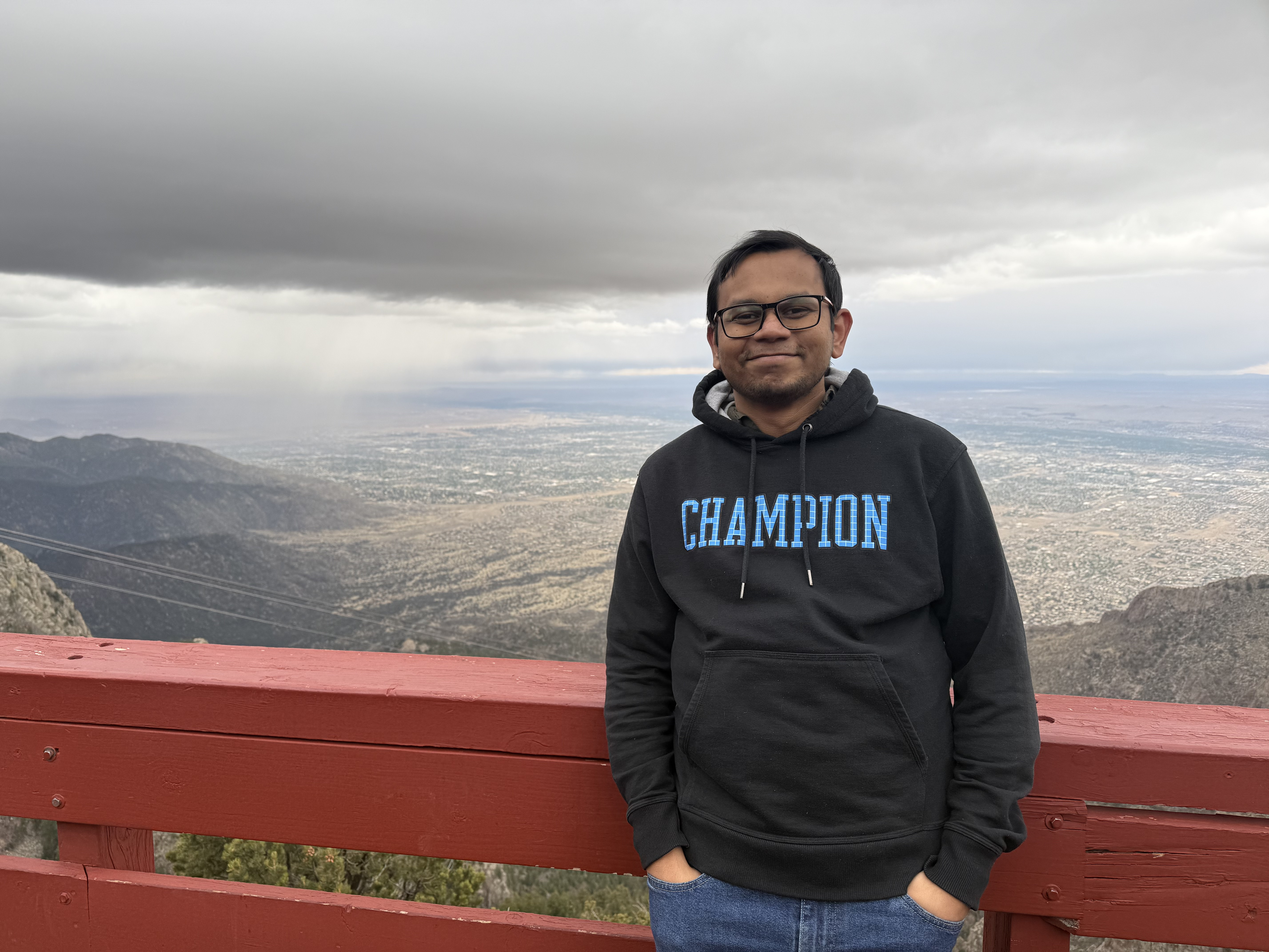
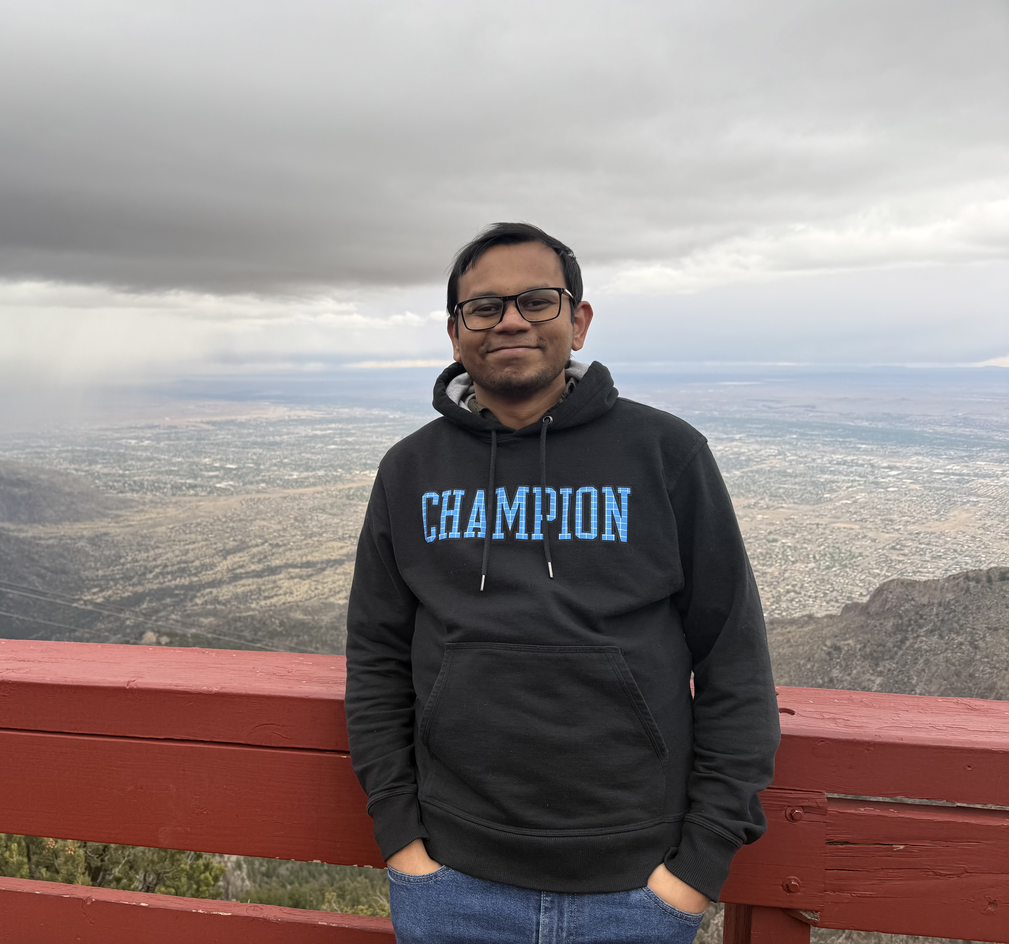
changes 4

diff --git a/index.html b/index.html
@@ -64,7 +64,7 @@
 
                   </p>
                   <p>
-                    I completed my Master's in Computer Science from Arizona State University in 2024. Previously, I worked as a Software Consultant at <a href="https://www.oracle.com/in/">Oracle Financial Services</a>.
+                    I completed my Master's in Computer Science from Arizona State University in 2024. Previously, I worked as a Software Consultant at <a href="https://www.oracle.com/in/">Oracle</a>.
                   </p>
 
                   <p style="text-align:center">
@@ -76,7 +76,7 @@
                   </p>
                 </td>
                 <td style="padding:2.5%;width:40%;max-width:40%">
-                  <a href="images/venky.jpeg"><img style="width:100%;max-width:100%" alt="profile photo" src="images/venky.jpeg" class="hoverZoomLink"></a>
+                  <a href="images/venky.jpeg"><img alt="profile photo" src="images/venky.jpeg" class="hoverZoomLink profile-photo"></a>
                 </td>
               </tr>
             </tbody>

diff --git a/stylesheet.css b/stylesheet.css
@@ -126,6 +126,16 @@ name {
   -webkit-transition: opacity .2s ease-in-out;
 }
 
+/* Circular profile photo helper */
+.profile-photo {
+  width: 100%;
+  max-width: 100%;
+  border-radius: 50%;
+  object-fit: cover; /* crop to fit */
+  aspect-ratio: 1/1; /* ensure square for circular rendering */
+  display: block;
+}
+
 span.highlight {
   background-color: #ffffd0;
 }
